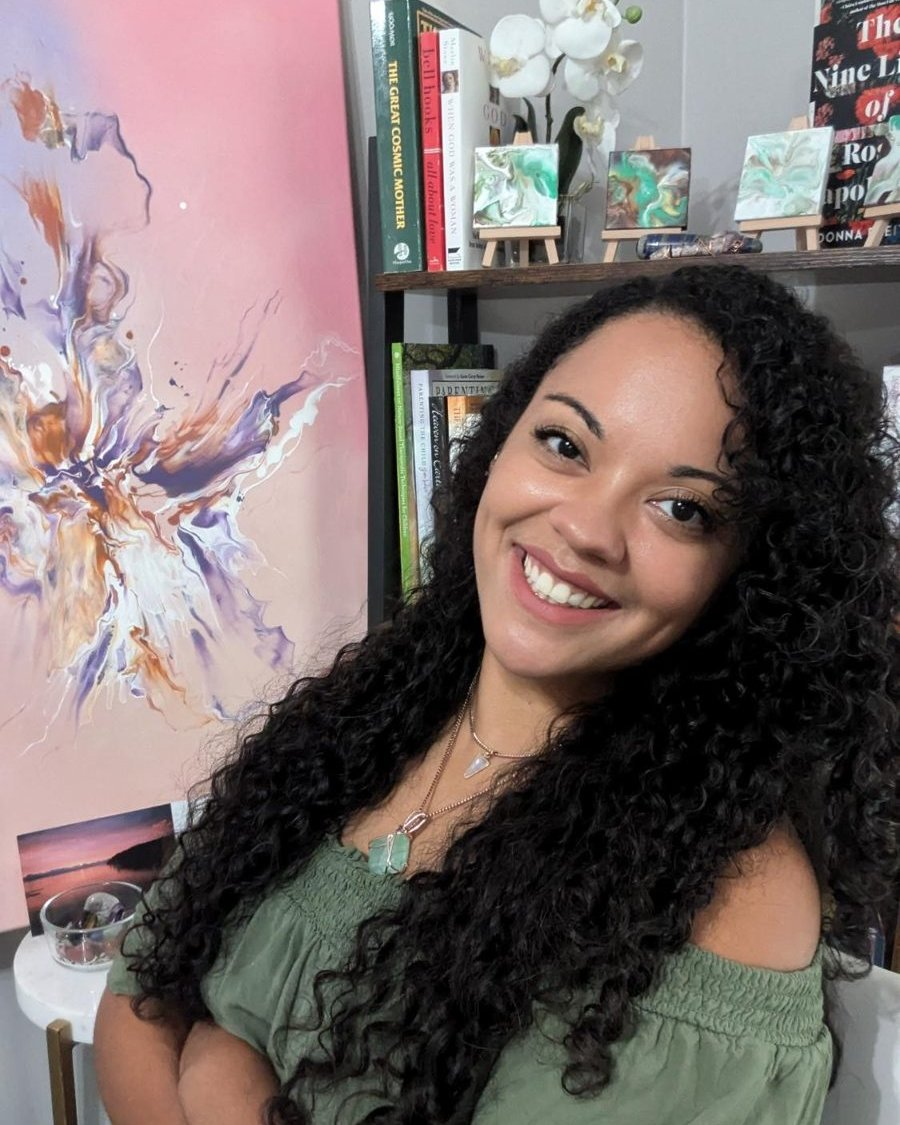
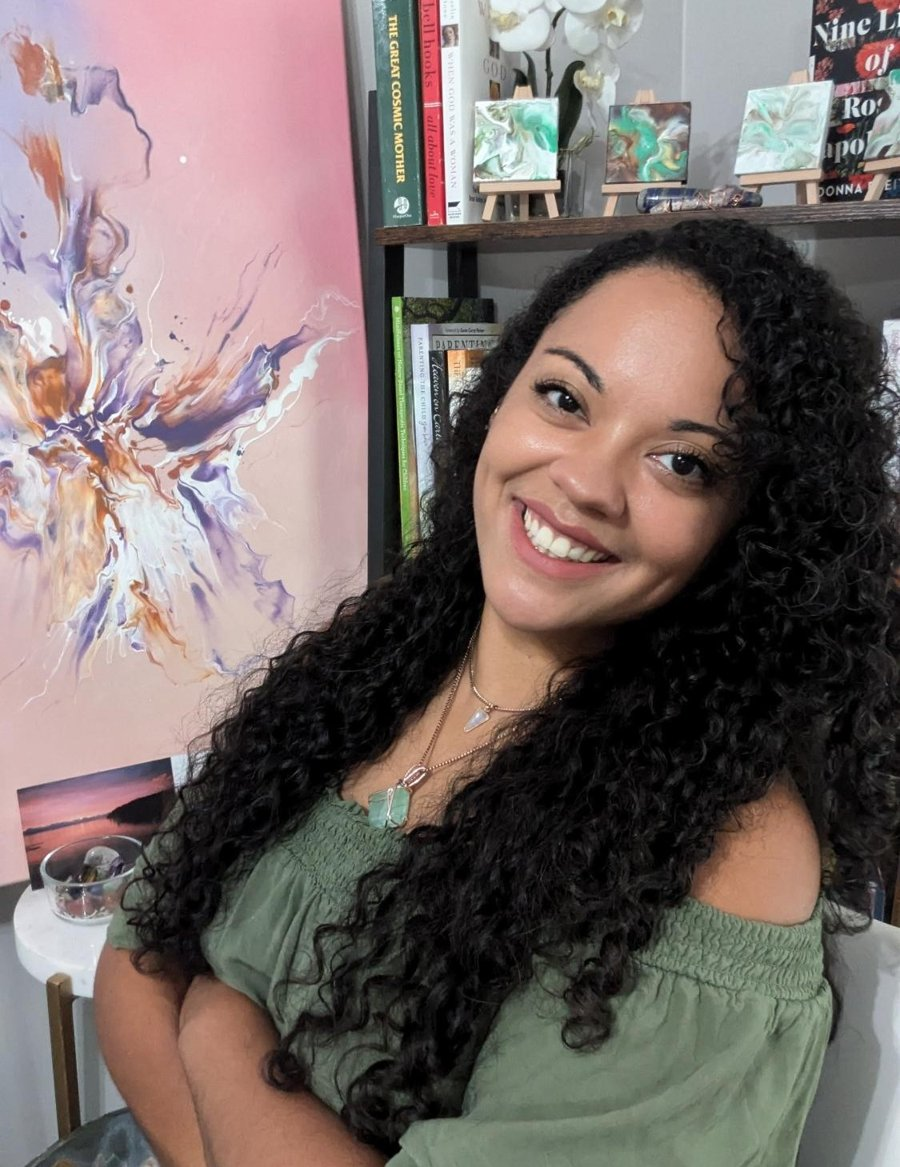
Use Tiffani's cropped photo and show it uncropped with soft corners
Claude-Session: https://claude.ai/code/session_011pUGV6MYMzsmpQzBmuvVR7

diff --git a/styles.css b/styles.css
@@ -122,7 +122,7 @@ p { margin: 0; }
   background: linear-gradient(160deg, var(--band), var(--blush) 60%, var(--sage));
   display: grid; place-items: center; color: var(--muted); font-size: 0.9rem; text-align: center; padding: 20px;
 }
-img.portrait { display: block; width: 100%; max-width: 420px; height: auto; margin-inline: auto; padding: 0; object-fit: cover; object-position: 60% 30%; }
+img.portrait { display: block; width: 100%; max-width: 420px; height: auto; aspect-ratio: auto; border-radius: 24px; margin-inline: auto; padding: 0; object-fit: contain; }
 
 /* Footer */
 .site-footer { background: var(--ink); color: #EDE4F7; }

diff --git a/index.html b/index.html
@@ -90,7 +90,7 @@
 
   <section class="band blush">
     <div class="wrap about">
-      <img class="portrait" src="tiffani.jpg" alt="Tiffani smiling in front of a pink and lavender abstract painting and a bookshelf" width="900" height="1125">
+      <img class="portrait" src="tiffani.jpg" alt="Tiffani smiling in front of a pink and lavender abstract painting and a bookshelf" width="900" height="1167">
       <div class="stack">
         <p class="eyebrow">Hi, I'm Tiffani</p>
         <h2>I've restarted my life more times than I'd like to admit.</h2>
